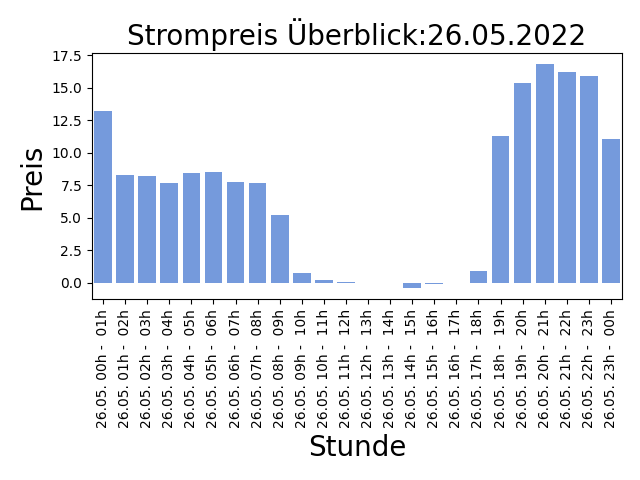
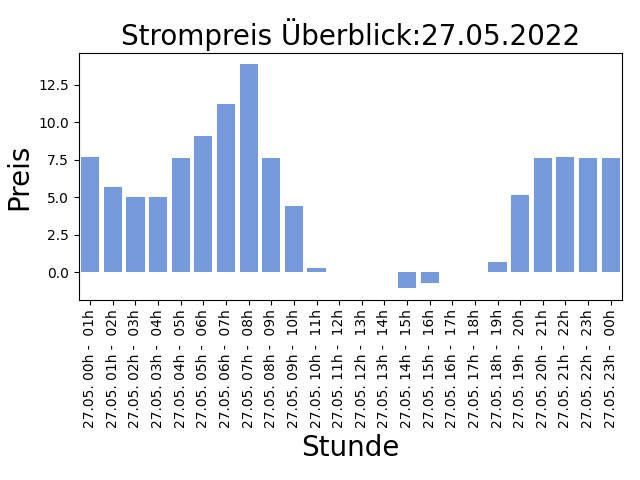
AUTOMATIC UPDATE PRICE LIST: 2022-05-26-14:30:12

diff --git a/README.md b/README.md
@@ -1,5 +1,5 @@
 
-## Strompreise für den 26.05.2022
+## Strompreise für den 27.05.2022
 
 Niedrige Preise deuten auf viel Sonnen und Windenergieerzeugung hin, ein hoher Anteil an erneuerbaren Energien bedeuted weniger CO2 Verbrauch!
 
@@ -7,31 +7,31 @@ Niedrige Preise deuten auf viel Sonnen und Windenergieerzeugung hin, ein hoher A
 
 | Stunde | Preis in Cent/kWh |
 |---|---|
-| 26.05. 00h -  01h | 13.238999999999999 | 
-| 26.05. 01h -  02h | 8.268 | 
-| 26.05. 02h -  03h | 8.219 | 
-| 26.05. 03h -  04h | 7.702 | 
-| 26.05. 04h -  05h | 8.473 | 
-| 26.05. 05h -  06h | 8.48 | 
-| 26.05. 06h -  07h | 7.7090000000000005 | 
-| 26.05. 07h -  08h | 7.704000000000001 | 
-| 26.05. 08h -  09h | 5.1850000000000005 | 
-| 26.05. 09h -  10h | 0.737 | 
-| 26.05. 10h -  11h | 0.196 | 
-| 26.05. 11h -  12h | 0.007000000000000001 | 
-| 26.05. 12h -  13h | 0.0 | 
-| 26.05. 13h -  14h | -0.008 | 
-| **26.05. 14h -  15h** | **-0.44000000000000006** | 
-| 26.05. 15h -  16h | -0.136 | 
-| 26.05. 16h -  17h | 0.001 | 
-| 26.05. 17h -  18h | 0.9289999999999999 | 
-| 26.05. 18h -  19h | 11.327 | 
-| 26.05. 19h -  20h | 15.412 | 
-| 26.05. 20h -  21h | 16.809 | 
-| 26.05. 21h -  22h | 16.226 | 
-| 26.05. 22h -  23h | 15.916999999999998 | 
-| 26.05. 23h -  00h | 11.081999999999999 | 
+| 27.05. 00h -  01h | 7.715000000000001 | 
+| 27.05. 01h -  02h | 5.699 | 
+| 27.05. 02h -  03h | 5.006 | 
+| 27.05. 03h -  04h | 5.002000000000001 | 
+| 27.05. 04h -  05h | 7.643000000000001 | 
+| 27.05. 05h -  06h | 9.09 | 
+| 27.05. 06h -  07h | 11.228 | 
+| 27.05. 07h -  08h | 13.859 | 
+| 27.05. 08h -  09h | 7.644 | 
+| 27.05. 09h -  10h | 4.431 | 
+| 27.05. 10h -  11h | 0.301 | 
+| 27.05. 11h -  12h | 0.006 | 
+| 27.05. 12h -  13h | 0.003 | 
+| 27.05. 13h -  14h | -0.01 | 
+| **27.05. 14h -  15h** | **-1.08** | 
+| 27.05. 15h -  16h | -0.736 | 
+| 27.05. 16h -  17h | -0.004 | 
+| 27.05. 17h -  18h | 0.01 | 
+| 27.05. 18h -  19h | 0.7110000000000001 | 
+| 27.05. 19h -  20h | 5.165 | 
+| 27.05. 20h -  21h | 7.5969999999999995 | 
+| 27.05. 21h -  22h | 7.712000000000001 | 
+| 27.05. 22h -  23h | 7.595999999999999 | 
+| 27.05. 23h -  00h | 7.648999999999999 | 
 
 Preise der EPEX Spot ® Strombörse (neue Preise werden täglich um 14:00 veröffentlicht für den kompletten nächsten Tag).
 
-letzte Aktualisierung:25.05.2022 14:31
+letzte Aktualisierung:26.05.2022 14:30
